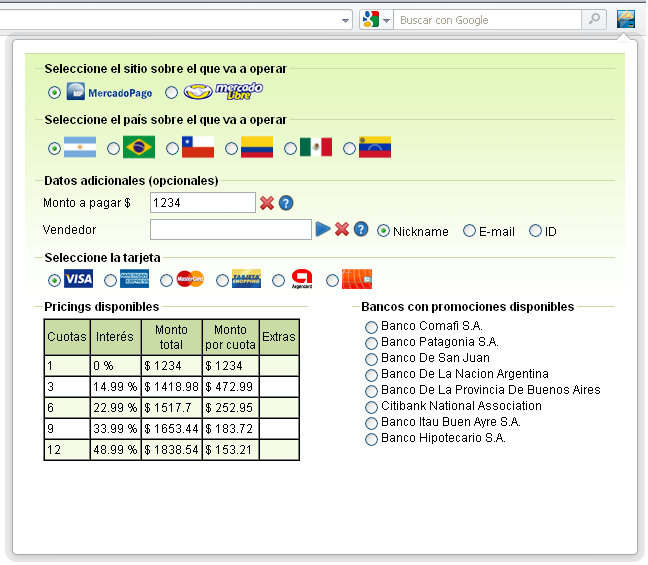
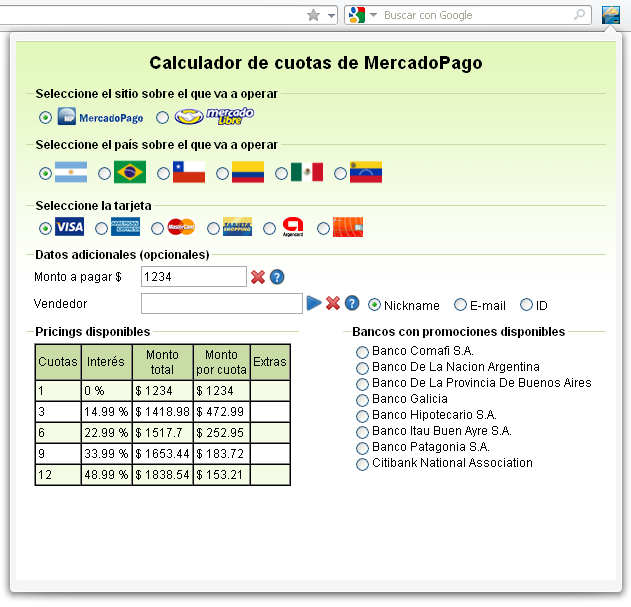
Minor UI tweaks suggested by @pulsovisual

Changed region(s): [[0.0, 0.0, 0.9937, 0.9929]]

diff --git a/popup.html b/popup.html
@@ -10,11 +10,16 @@
 	<link type="text/css" href="/assets/css/popup.css" rel="stylesheet" />
 </head>
 <body>
+	<h1></h1>
 	<fieldset id="marketplaces">
 		<legend></legend>
 	</fieldset>
 	<fieldset id="sites">
 		<legend></legend>
+	</fieldset>
+	<fieldset id="cards">
+		<legend></legend>
+		<div class="spinner-medium" />
 	</fieldset>
 	<fieldset id="additionalData">
 		<legend></legend>
@@ -51,10 +56,6 @@
 				<label><input type="radio" name="collectorDataType" value="id" /><span id="collectorDataTypeId"></span></label>
 			</div>
 		</div>
-	</fieldset>
-	<fieldset id="cards">
-		<legend></legend>
-		<div class="spinner-medium" />
 	</fieldset>
 	<fieldset id="pricings">
 		<legend></legend>

diff --git a/popup.js b/popup.js
@@ -33,6 +33,8 @@ mlapiUrls["acceptedPaymentMethods.single"] = mlapiBaseUrl + "users/##USER_ID##/a
 mlapiUrls["items"] = mlapiBaseUrl + "items/##ITEM_ID##?callback=?";
 
 function fillLocalizedUI() {
+	$("h1").text(getMsg("extension.name"));
+	
 	$("#marketplaces legend").text(getMsg("marketplaces.legend"));
 	$("#sites legend").text(getMsg("sites.legend"));
 	$("#additionalData legend").text(getMsg("additionalData.legend"));

diff --git a/assets/css/popup.css b/assets/css/popup.css
@@ -5,6 +5,12 @@
 body {
 	background: url(/assets/img/popup-back.gif) left top repeat-x;
 }
+h1 {
+	text-align: center;
+	font: 18px Helvetica, Arial, sans-serif;
+	font-weight: bold;
+	color: #000;
+}
 fieldset {
 	border: none;
 	border-top: 1px solid #C9DCA6;

diff --git a/background.js b/background.js
@@ -14,7 +14,7 @@ window.addEventListener("load", function() {
 		popup: {
 			href: "popup.html",
 			width: 600,
-			height: 490
+			height: 540
 		},
 		badge: {
 			textContent: '',

diff --git a/README.md b/README.md
@@ -17,6 +17,7 @@ Just need to select the right website, the country where you reside and the card
 Changelog
 ---------
 
+* 1.2.0 - Display a badge on MercadoLibre's product pages and automatically put the item price. Minor UI tweaks.
 * 1.1.0 - Support for seller's custom promotions. Graphical/usability improvements.
 * 1.0.2 - Compatible with Opera 11.60 and 12.00
 * 1.0.1 - Changed error message when MercadoLibre's API seems to be down
